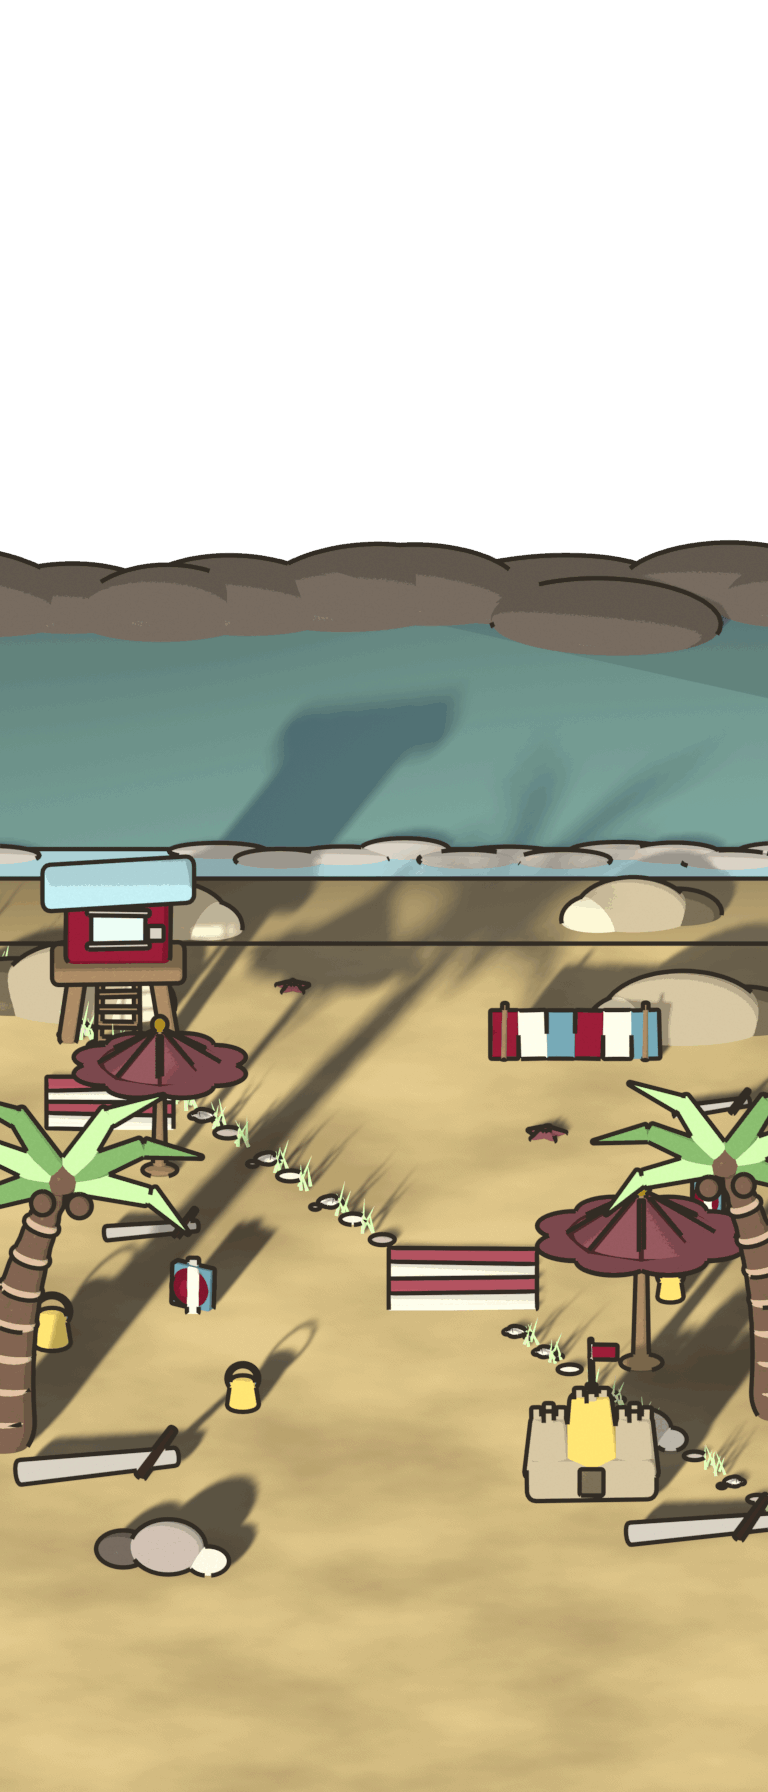
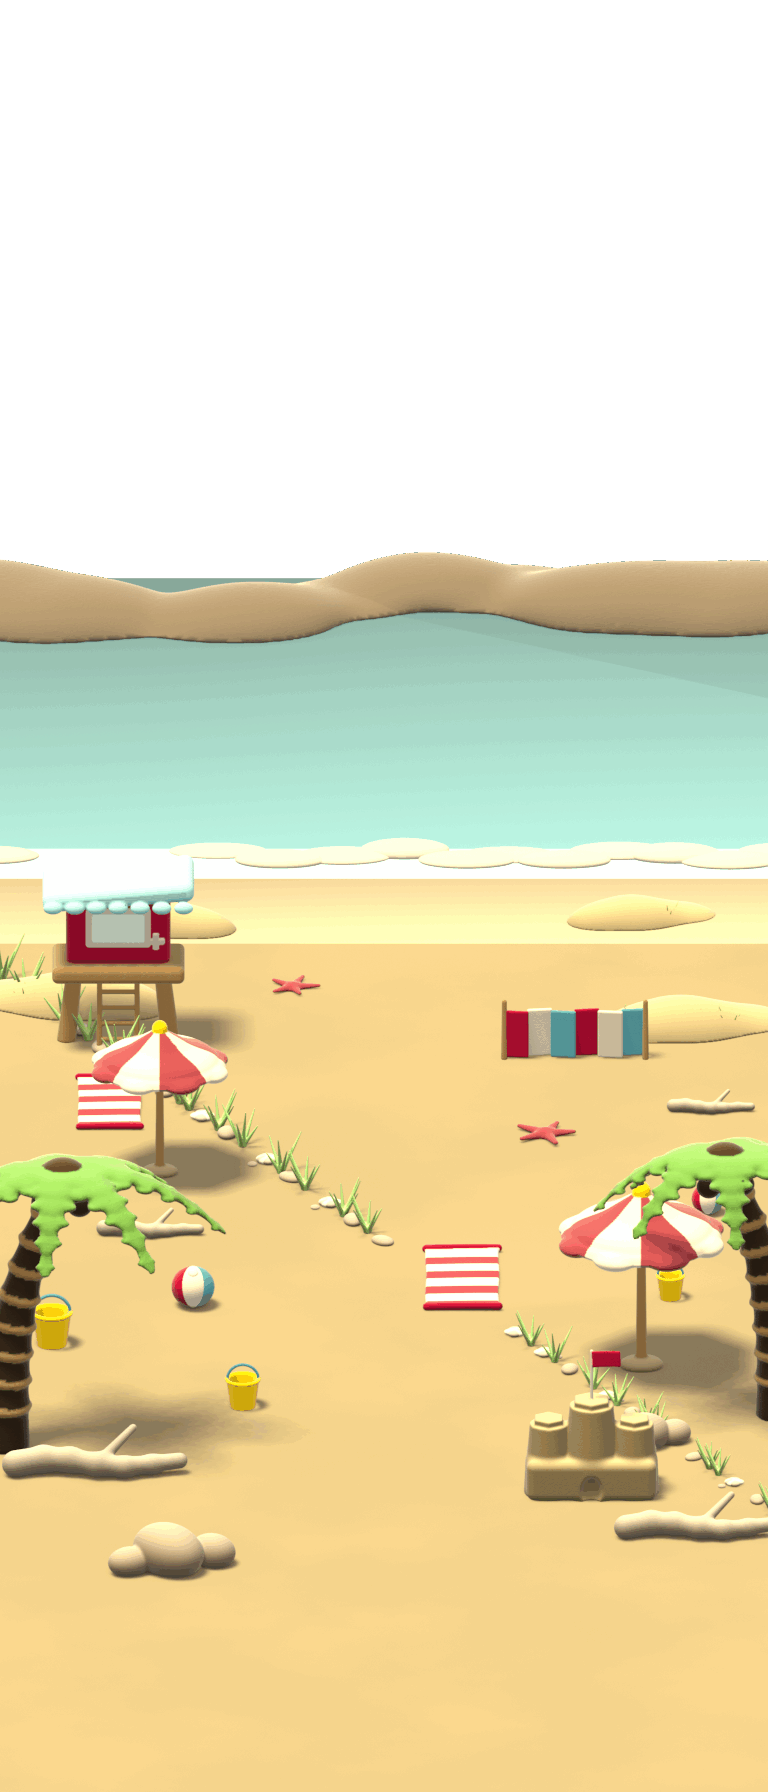
Toy light: relight the sculpted scenes bright, soft and playful
Operator on the sculpted park: "that's scary and hurts my eyes and isn't
fun and playful." It was lit by the primitive style's dark-making light
(low hard sun, sky fill 0.13, long black shadow bands) on an olive lawn
quieted for a metric.

palette.TOY_LIGHT lights sculpted scenes: sun nearly overhead with a soft
disc, strong sky fill and bounce, contact-only AO, more colour on the toys
(a saturation node in toybox.flock_painted), darker-painted ground so an
overhead sun does not bleach it, flock nap 0.25. The far treeline no
longer darkens to a wall. Fixes the sun-height bug for sculpted scenes:
elevation was measured from the origin while aiming 20 units back, so the
sun sat ~16 deg off and shone from the camera side. The kit's cache key now
hashes the palette's colours, not palette.py, so a light change no longer
re-sculpts. Removed the now-unused _quiet.

Plates promoted with the same recipe CI uses (so the playtest rebuilds
with them): park 240 KB, beach 148 KB, both under budget now. art-hierarchy
chroma gap is worse (park +0.03) and ART_STYLE.md records why that is
accepted.

Claude-Session: https://claude.ai/code/session_01CJqbtqFeDnedgUGEMwdJjE

diff --git a/barkly/app/tools/blender/world_scene_pack.py b/barkly/app/tools/blender/world_scene_pack.py
@@ -43,7 +43,7 @@ import bpy
 
 import sys
 sys.path.insert(0, str(Path(__file__).resolve().parent))
-from palette import light_hex, sun_height, tone, world_rgb  # noqa: E402  -- the one place a colour comes from
+from palette import TOY_LIGHT, light_hex, sun_height, tone, world_rgb  # noqa: E402  -- the one place a colour comes from
 from proportion import crown, shaft, stack  # noqa: E402  -- and the one place a SHAPE comes from
 from ink import INK, contour_on  # noqa: E402  -- and the one place an EDGE comes from
 import ink as ink_switch  # noqa: E402  -- the switch itself, flipped per scene style
@@ -304,6 +304,8 @@ def setup(ortho_scale: float, target, sun_energy: float, sun_color, ambient: str
             except (TypeError, ValueError):
                 pass
 
+    if SCULPTED and hasattr(eevee, "gtao_distance"):
+        eevee.gtao_distance = TOY_LIGHT["ao_distance"]
     _ink_pass(scene)
 
     # Ambient light stands in for the sky the app will draw behind this.
@@ -313,7 +315,7 @@ def setup(ortho_scale: float, target, sun_energy: float, sun_color, ambient: str
     # blue, and it was quietly taking half the chroma off every warm surface
     # in the game. `ambient` still names WHICH sky; the palette decides how
     # much of it there is, once, for both packs.
-    scene.world.color = world_rgb()
+    scene.world.color = world_rgb(TOY_LIGHT["sky_fill"] if SCULPTED else None)
 
     bpy.ops.object.camera_add(location=(0.0, 0.0, 0.0))
     camera = bpy.context.object
@@ -368,17 +370,28 @@ def setup(ortho_scale: float, target, sun_energy: float, sun_color, ambient: str
     # own reach, so the prop pack -- whose lamp stands 7.2 units out where this
     # one stands 9.0 -- gets the SAME SUN rather than the same number.
     reach = math.hypot(7.5, 5.0)
-    bpy.ops.object.light_add(type="SUN", location=(-7.5, -5.0, sun_height(reach, scene_name)))
+    if SCULPTED:
+        # The toy light (palette.TOY_LIGHT), and its elevation is measured
+        # FROM THE AIM POINT. The primitive path below measures from the
+        # origin while aiming 20 units back into the scene, so its "34 degree"
+        # sun is really about 50 and shines from the camera side. (It keeps
+        # its numbers: its plates were judged as rendered, and only town still
+        # uses it.)
+        where = (aim[0] - 7.5, aim[1] - 5.0,
+                 aim[2] + reach * math.tan(math.radians(TOY_LIGHT["elevation"])))
+    else:
+        where = (-7.5, -5.0, sun_height(reach, scene_name))
+    bpy.ops.object.light_add(type="SUN", location=where)
     sun = bpy.context.object
     sun.name = "Sun"
-    sun.data.energy = sun_energy
+    sun.data.energy = sun_energy * (TOY_LIGHT["sun_scale"] if SCULPTED else 1.0)
     sun.data.color = pack.rgb(sun_color)
     # A disc, not a point: this is what makes a shadow soften with distance
     # from the thing casting it, which no ellipse under a prop can imitate.
     # 1.1 degrees, from the adopted style. At 3.2 the penumbra grew about 56mm
     # per metre of run, so at this sun's height the far end of every shadow
     # was a smudge rather than a shape.
-    sun.data.angle = math.radians(1.1)
+    sun.data.angle = math.radians(TOY_LIGHT["softness"] if SCULPTED else 1.1)
     # And the sun spends its shadow map on the part of the scene the camera
     # can see. Blender's default covers 200 units; this camera sees about 60,
     # so better than two thirds of every texel was being spent behind the
@@ -392,6 +405,8 @@ def setup(ortho_scale: float, target, sun_energy: float, sun_color, ambient: str
     fill = bpy.context.object
     fill.name = "Sky bounce"
     fill.data.energy = 33          # 60 * 0.55, from the adopted style
+    if SCULPTED:
+        fill.data.energy *= TOY_LIGHT["bounce_scale"]
     fill.data.size = 9.0
     fill.data.color = pack.rgb(light_hex("fill"))
     if hasattr(fill.data, "use_shadow"):
@@ -472,15 +487,18 @@ def park():
     the app on top of this.
     """
     if SCULPTED:
-        # A QUIET FIELD. art-hierarchy measures Barkly's saturation against the
-        # whole plate's, and the lawn is most of the plate: at full grass
-        # chroma the sculpted park measured a gap of +0.09 against a +0.18
-        # floor. The concept sheet's own words are "made to stand out on any
-        # shelf" -- the ground is the shelf.
-        # And SOFT: the primitive lawn's tooth (bump 0.10) is per-pixel grit,
-        # which is both wrong for a flocked playmat and incompressible -- the
-        # ground-only bottom strip of the plate cost 76 KB of a 425 KB file.
-        ground(_quiet(tone("grass", "base")), _quiet(tone("grass", "lit")), bump=0.03)
+        # The full grass colour. It was quieted to 0.68 of its chroma to lift
+        # Barkly's chroma-gap number, and the operator's read of the result
+        # was "scary, hurts my eyes, isn't fun" -- a drab olive field under a
+        # raking sun. A playful lawn is green. Soft grain stays.
+        # Two CLOSE greens: base against lit put big pale blotches across the
+        # field. A toy playmat is one clean colour with a gentle breath in it.
+        gv = TOY_LIGHT["ground_value"]
+        # 1.12 of the grass chroma, not more: at 1.40 the lawn measured as
+        # saturated as Barkly himself (chroma gap -0.01) -- an electric field
+        # competing with the character, the uniform loud frame the operator
+        # has called eye-hurting before. Green and sunny, one step calmer.
+        ground(_toy(tone("grass", "base"), 1.12, gv), _toy(tone("grass", "base"), 1.20, gv * 1.08), bump=0.02)
     else:
         ground(tone("grass", "base"))
     # Where the dog stands, how tall a world unit is there, and the horizon.
@@ -1052,6 +1070,8 @@ SCULPTED_BUILDERS = {
 #: paint, just overexposed. One exposure for the whole kit, not a per-object
 #: fudge; `tint` below is relative to it.
 SUN_EXPOSURE = 0.80
+# ...under the primitive light. Under the toy light (sculpted scenes) the sun
+# is overhead and weaker, so the kit takes palette.TOY_LIGHT["kit_exposure"].
 
 
 def _kit_python() -> str:
@@ -1087,7 +1107,10 @@ def _toy_material():
     mat = bpy.data.materials.get("Toy flock")
     if mat is not None:
         return mat
-    return toybox.flock_painted("Toy flock", nap=0.62)
+    # Nap 0.25, not the preview's 0.62: at plate scale the grain read as a
+    # fuzzy, buzzing surface -- "hurts my eyes". A toy's velvet is soft, and
+    # softness at this distance is smoothness.
+    return toybox.flock_painted("Toy flock", nap=0.25, chroma=TOY_LIGHT["chroma"])
 
 
 def _kit_mesh(name: str):
@@ -1116,18 +1139,19 @@ def kit(name: str, x: float, y: float, s: float = 1.0, tint: float = 1.0,
     obj.location = (wx, wy, 0.0)
     obj.rotation_euler = (0.0, 0.0, THETA)   # the kit faces -y; the camera is yawed THETA
     obj.scale = (s * stretch * (-1.0 if flip else 1.0), s, s)
-    v = tint * SUN_EXPOSURE
+    v = tint * (TOY_LIGHT["kit_exposure"] if SCULPTED else SUN_EXPOSURE)
     obj.color = (v, v, v, 1.0)
     return obj
 
 
-def _quiet(hex_colour: str, f: float = 0.68) -> str:
-    """A palette tone with its saturation scaled down -- same family, same
-    value, less voice."""
+def _toy(hex_colour: str, chroma: float = None, value: float = 1.0) -> str:
+    """A palette tone pushed toward toy colour: more saturated by the toy
+    light's chroma (or `chroma`), value scaled by `value`."""
     import colorsys
+    c = TOY_LIGHT["chroma"] if chroma is None else chroma
     r, g, b = (int(hex_colour[i:i + 2], 16) / 255 for i in (1, 3, 5))
     h, sat, v = colorsys.rgb_to_hsv(r, g, b)
-    r, g, b = colorsys.hsv_to_rgb(h, sat * f, v)
+    r, g, b = colorsys.hsv_to_rgb(h, min(1.0, sat * c), min(1.0, v * value))
     return "#%02X%02X%02X" % (round(r * 255), round(g * 255), round(b * 255))
 
 
@@ -1273,7 +1297,7 @@ def _path():
             continue
         obj = _poly(name, left + right[::-1], z, mat)
         if SCULPTED:
-            _mould(obj, toybox.flock("Path toy", tone("paving", "base"), nap=0.0))
+            _mould(obj, toybox.flock("Path toy", _toy(tone("paving", "base"), 1.3, TOY_LIGHT["ground_value"] * 0.95), nap=0.0))
 
 
 def _mould(obj, mat, thickness: float = 0.10, lip: float = 0.07):
@@ -1463,10 +1487,12 @@ def _tree(x: float, y: float, s: float, canopy: str | None = None,
     of the ground instead of being pushed into it.
     """
     if SCULPTED:
-        # The far row and the left proscenium ask for `foliage shade`: the
-        # same sculpt, darkened by the object colour, reads further away.
+        # The far row and the left proscenium ask for `foliage shade`. At 0.70
+        # the far treeline rendered as a near-black wall along the horizon --
+        # the single most ominous thing in the frame. Distance reads as
+        # LIGHTER, not darker; the far row takes only a whisper of difference.
         name, flip = _pick("tree", x, y)
-        tint = 0.70 if canopy == tone("foliage", "shade") else 1.0
+        tint = 0.94 if canopy == tone("foliage", "shade") else 1.0
         return [kit(name, x, y, s, tint=tint, flip=flip)]
     canopy = tone("foliage", "base") if canopy is None else canopy
     trunk = tone("bark", "base") if trunk is None else trunk
@@ -1564,9 +1590,9 @@ def beach():
       written.
     """
     if SCULPTED:
-        # Soft, and a little quieter -- less than the lawn. Unquieted, Barkly's
-        # chroma gap on the beach measured +0.158 against the +0.18 floor.
-        ground(_quiet(tone("sand", "base"), 0.8), _quiet(tone("sand", "lit"), 0.8), tooth=38.0, bump=0.03)
+        # Full sand colour, soft grain -- the same ruling as the lawn.
+        gv = TOY_LIGHT["ground_value"]
+        ground(_toy(tone("sand", "base"), 1.25, gv), _toy(tone("sand", "base"), 1.35, gv * 1.06), tooth=38.0, bump=0.02)
     else:
         ground(tone("sand", "base"), tone("sand", "lit"), tooth=38.0, bump=0.09)
     _anchor("stand", 0.0, -3.0)

diff --git a/barkly/app/tools/blender/palette.py b/barkly/app/tools/blender/palette.py
@@ -429,9 +429,41 @@ def light_rgb(kind: str):
 SKY_FILL_STRENGTH = 0.13
 
 
-def world_rgb():
+def world_rgb(strength=None):
     """The render world's colour: the sky, at the strength a surface sees it."""
-    return tuple(c * SKY_FILL_STRENGTH for c in light_rgb("fill"))
+    k = SKY_FILL_STRENGTH if strength is None else strength
+    return tuple(c * k for c in light_rgb("fill"))
+
+
+#: THE TOY LIGHT: how the SCULPTED scenes are lit (world_scene_pack,
+#: SCENE_STYLE "sculpt"). Same lamps, same colours -- a different shape of
+#: light, and the operator's word for the one above on a sculpted park was
+#: "scary, hurts my eyes, isn't fun and playful" (2026-09-23).
+#:
+#: The primitive style's light was tuned to MAKE darks: a 34-degree sun with a
+#: hard 1.1-degree edge and a sky fill cut to 0.13, so long black shadows raked
+#: across every lawn. On cel bands and ink that read as drama. On soft toys it
+#: reads as dusk in a wood. A toy on a shelf is lit high, soft and full: short
+#: shadows tucked under each object, shadow edges that fade, and a sky bright
+#: enough that nothing in shade goes black.
+TOY_LIGHT = {
+    # First cut was 64 / 10 / 0.46: brighter, but the framing trees still
+    # threw shadow bands across the whole lawn. A toy shelf is lit from
+    # nearly overhead.
+    "elevation": 74.0,      # degrees; shadows pooled under each object
+    "softness": 16.0,       # sun disc, degrees; shadow edges that fade out
+    "sun_scale": 0.52,      # of the scene's sun energy: the sky carries more
+    "sky_fill": 0.70,       # world strength, against SKY_FILL_STRENGTH 0.13
+    "bounce_scale": 3.0,    # the sky-bounce area lamp
+    "ao_distance": 0.9,     # contact occlusion only, not a grey halo
+    "chroma": 1.22,         # toy colour: saturation on the sculpted paint
+    # An overhead sun lights flat ground far harder than the sides of the
+    # things standing on it: at full value the lawn went pale yellow and the
+    # path white while the toys looked dim beside them. The ground is painted
+    # this much darker, the toys this much brighter.
+    "ground_value": 0.78,
+    "kit_exposure": 0.95,
+}
 
 
 def light_hex(kind: str) -> str:

diff --git a/barkly/app/tools/blender/toybox.py b/barkly/app/tools/blender/toybox.py
@@ -152,7 +152,7 @@ def flock(name, colour, sheen=0.62, roughness=0.94, nap=1.0):
     return mat
 
 
-def flock_painted(name, nap=1.0):
+def flock_painted(name, nap=1.0, chroma=1.0):
     """`flock`, coloured per VERTEX instead of by one constant -- for sculpted
     meshes (tools/sculpt), whose paint is baked into a colour attribute.
 
@@ -172,7 +172,15 @@ def flock_painted(name, nap=1.0):
     mul.inputs["Fac"].default_value = 1.0
     nt.links.new(paint.outputs["Color"], mul.inputs["Color1"])
     nt.links.new(info.outputs["Color"], mul.inputs["Color2"])
-    nt.links.new(mul.outputs["Color"], bsdf.inputs["Base Color"])
+    if chroma == 1.0:
+        nt.links.new(mul.outputs["Color"], bsdf.inputs["Base Color"])
+    else:
+        # Saturation on the painted colour, for scenes lit to be playful
+        # (palette.TOY_LIGHT["chroma"]); the paint itself stays palette tones.
+        hsv = nt.nodes.new("ShaderNodeHueSaturation")
+        hsv.inputs["Saturation"].default_value = chroma
+        nt.links.new(mul.outputs["Color"], hsv.inputs["Color"])
+        nt.links.new(hsv.outputs["Color"], bsdf.inputs["Base Color"])
     return mat
 
 

diff --git a/barkly/app/tools/sculpt/kit.py b/barkly/app/tools/sculpt/kit.py
@@ -38,13 +38,18 @@ ROOT = HERE.parent.parent
 OUT = ROOT / "art-review" / "sculpt" / "kit"
 
 #: Everything whose change must re-sculpt the kit.
-SOURCES = [HERE / "sdf.py", HERE / "kit.py", HERE / "tree.py", HERE.parent / "blender" / "palette.py"]
+SOURCES = [HERE / "sdf.py", HERE / "kit.py", HERE / "tree.py"]
 
 
 def source_hash() -> str:
+    """The code that sculpts, plus the palette's COLOURS -- not palette.py's
+    bytes. The kit paints with tones; it does not care how the scene is lit,
+    and hashing the whole file made every light tweak a 7-minute re-sculpt."""
+    import palette
     h = hashlib.sha256()
     for p in SOURCES:
         h.update(p.read_bytes())
+    h.update(json.dumps({f: [tone(f, s) for s in palette.STEPS] for f in palette.FAMILIES}).encode())
     return h.hexdigest()[:16]
 
 

diff --git a/barkly/docs/ART_STYLE.md b/barkly/docs/ART_STYLE.md
@@ -250,6 +250,37 @@ darkest 15% is lawn in cast shadow, green at hue ~85. Passing that floor means
 a warm-shadow treatment of the lawn, which is the next decision, not a number
 to chase by putting the line back.
 
+### The toy light (2026-09-23, same day) — the operator's ruling outranks the metrics
+
+The first sculpted park was lit by the primitive style's light: a 34° sun
+(really ~50°, see below) with a hard edge and a sky fill cut to 0.13, built
+to MAKE darks. On soft toys it read as dusk in a wood, and the operator's
+verdict was: *"that's scary and hurts my eyes and isn't fun and playful."*
+The lawn had also been quieted to olive to lift a chroma-gap number. Both
+were wrong for this game.
+
+`palette.TOY_LIGHT` is how sculpted scenes are lit now: sun nearly overhead
+(74°, measured from the aim point) with a 16° soft disc, sky fill 0.70, a
+stronger bounce, contact-only occlusion, and more colour on the toys
+(chroma 1.22). The ground is painted darker (`ground_value` 0.78) because an
+overhead sun lights flat ground much harder than the sides of the things on
+it, and the flock nap drops to 0.25 because at plate scale the grain buzzed.
+
+Found on the way: the scene's sun height was computed from the origin while
+aiming 20 units back into the scene, so every plate's sun was ~16° steeper
+than its table said and shone from the camera side. The toy light measures
+from the aim point; the primitive path keeps its old numbers because its
+plates were judged as rendered, and only town still uses it.
+
+Numbers after the relight (shipped plates): park peak band 53.6%, chroma
+gap +0.03, darks 1.4%; beach 56.9%, +0.14, 0.5%. **The chroma gap got worse,
+on purpose, and the record says so.** A lawn quiet enough to pass it was the
+olive the operator called scary. The lawn was pulled back from 1.40 to 1.12
+of its chroma because at 1.40 it matched Barkly's saturation outright; past
+that, Barkly separates by hue and value (orange and cream on green), which
+this metric cannot see. If he ever stops reading at a glance, that is the
+signal — not this number.
+
 ## What is blocked, with numbers
 
 `scripts/art-hierarchy.py` measures whether Barkly still reads against his
